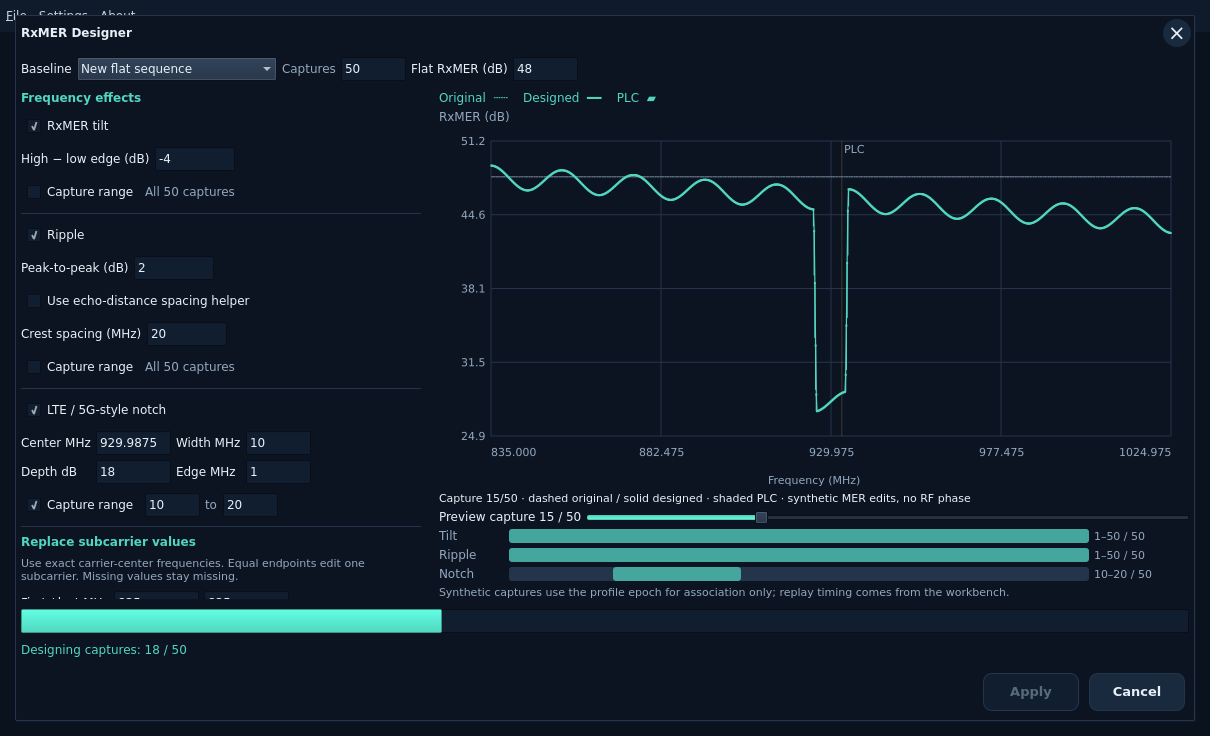
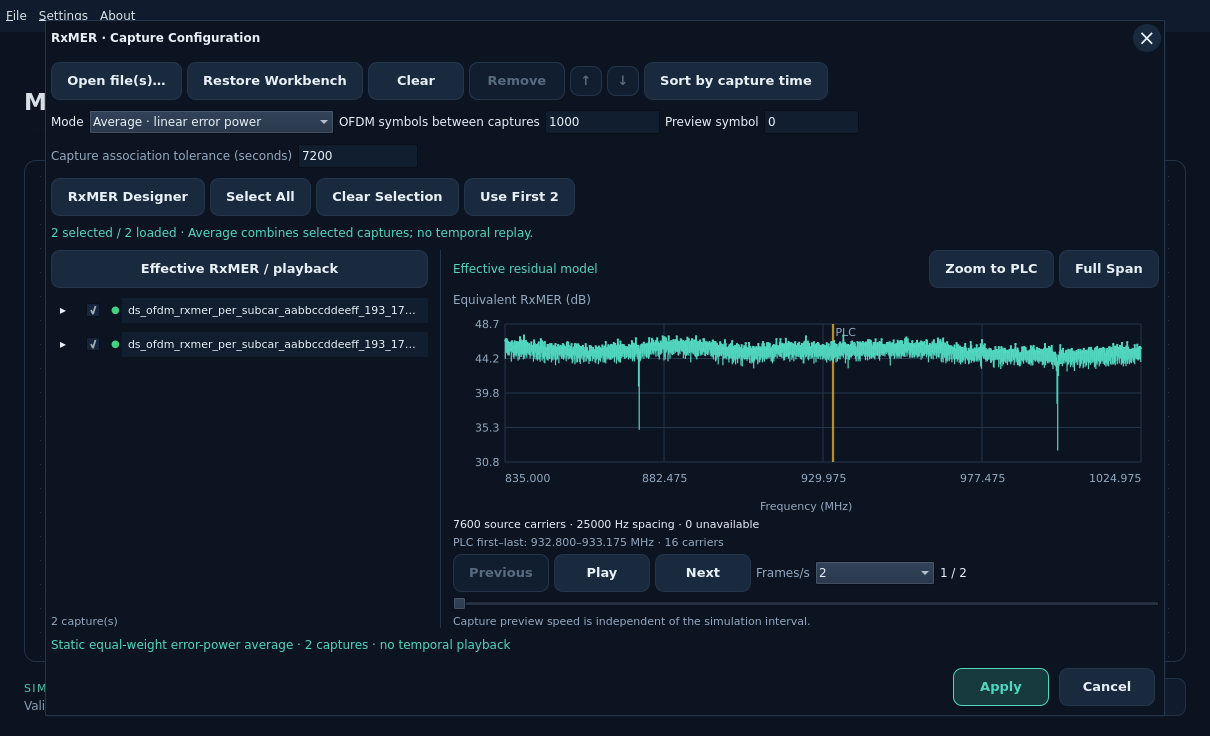
Feature: Add RxMER zoom and PLC focus - Connect Designer wheel and keyboard zoom - Add PLC focus and exact frequency readouts - Strengthen shading and retain capture zoom - Update guides and native screenshots - Tests: 74 adapter, 64 QML, Clippy and native UI

diff --git a/apps/qt/qml/inputs/measurement_input/RxmerDesignerDialog.qml b/apps/qt/qml/inputs/measurement_input/RxmerDesignerDialog.qml
@@ -12,6 +12,8 @@ WorkbenchDialog {
     property var parentOptions: ({})
     property var information: ({})
     property var viewport: ({})
+    property int viewStart: 0
+    property int viewCount: 0
     property var valueEdits: []
     property bool initializing: false
     property bool working: false
@@ -32,8 +34,10 @@ WorkbenchDialog {
             notch:notch.checked ? {scope:notchScope.value(),center_hz:Math.round(Number(center.text)*1e6),bandwidth_hz:Math.round(Number(bandwidth.text)*1e6),depth_db:Number(depth.text),edge_hz:Math.round(Number(edge.text)*1e6)} : null,edits:valueEdits}
     }
     function document() { return JSON.stringify({source:source.currentIndex === 0 ? "imported":"flat",capture_count:captureCount,baseline_db:Number(baseline.text),recipe:recipe()}) }
-    function refresh() { if (!initializing && visible && !working) { viewport=JSON.parse(backend.designer_preview(document(),Math.round(preview.value)));errorMessage=viewport.error || "";diagnostic=viewport.diagnostic || null } }
+    function refresh() { if (!initializing && visible && !working) { viewport=JSON.parse(backend.designer_preview(document(),Math.round(preview.value),viewStart,viewCount));errorMessage=viewport.error || "";diagnostic=viewport.diagnostic || null } }
+    function setWindow(start,count) {viewStart=start;viewCount=count;refresh()}
     function restore() {
+        viewStart=0;viewCount=0
         initializing=true
         information=JSON.parse(backend.designer_begin())
         errorMessage=information.error || ""
@@ -134,8 +138,13 @@ TextField {id:editDb;text:"30";Layout.preferredWidth:75} }
             }
             ColumnLayout {
                 Layout.fillWidth:true;Layout.fillHeight:true
-                Label {text:"Original  ┄┄    Designed  ━━    PLC  ▰";color:theme.accent}
-                MeasurementPlot {theme:dialog.theme;viewport:dialog.viewport;Layout.fillWidth:true;Layout.fillHeight:true;onViewportRequested:{} }
+                RowLayout {
+                    Label {text:"Original ┄  Designed ━  PLC ▰";color:theme.accent;Layout.fillWidth:true}
+                    WorkbenchActionButton {theme:dialog.theme;objectName:"designerZoomPlc";text:"Zoom to PLC";enabled:!!dialog.viewport.plc_view && !dialog.working;onClicked:dialog.setWindow(dialog.viewport.plc_view.start,dialog.viewport.plc_view.count)}
+                    WorkbenchActionButton {theme:dialog.theme;objectName:"designerFullSpan";text:"Full Span";enabled:!dialog.working;onClicked:dialog.setWindow(0,0)}
+                }
+                MeasurementPlot {theme:dialog.theme;viewport:dialog.viewport;Layout.fillWidth:true;Layout.fillHeight:true;onViewportRequested:function(start,count){dialog.setWindow(start,count)} }
+                Label {text:dialog.viewport.plc_summary || "";color:theme.muted;font.pixelSize:11;Layout.fillWidth:true}
                 RowLayout {
                     Label {text:"Preview capture "+Math.round(preview.value)+" / "+dialog.captureCount;color:theme.text}
                     Slider {id:preview;objectName:"designerPreviewCapture";Layout.fillWidth:true;from:1;to:Math.max(1,dialog.captureCount);stepSize:1;enabled:!dialog.working;onMoved:dialog.refresh()}

diff --git a/apps/qt/tests/tst_rxmer_designer.qml b/apps/qt/tests/tst_rxmer_designer.qml
@@ -16,7 +16,7 @@ Pane {
         property int cancelled:0
         property bool pending:false
         function designer_begin(){return JSON.stringify({imported_count:50,first_hz:640000000,last_hz:827000000,spacing_hz:25000,request:{source:"imported",capture_count:50,baseline_db:48,recipe:{tilt:null,ripple:null,notch:null,edits:[]}}})}
-        function designer_preview(document,position){lastRequest=JSON.parse(document);return JSON.stringify({points:[{x:0,y:0.2,minimum_y:0.2,gap:false}],comparison:[{x:0,y:0.1,minimum_y:0.1,gap:false}],bands:[{first:0.4,last:0.41,label:"PLC"}],start:0,count:7481,total:7481,axis_label:"RxMER (dB)",summary:"Capture "+position,timeline:[]})}
+        function designer_preview(document,position,start,count){lastRequest=JSON.parse(document);return JSON.stringify({points:[{x:0,y:0.2,minimum_y:0.2,gap:false}],comparison:[{x:0,y:0.1,minimum_y:0.1,gap:false}],bands:[{first:0.4,last:0.41,label:"PLC"}],start:count ? start:0,count:count || 7481,total:7481,plc_view:{start:4000,count:80},plc_summary:"PLC first–last: 740.000–740.375 MHz · 16 carriers",axis_label:"RxMER (dB)",summary:"Capture "+position,timeline:[]})}
         function designer_stage(document,options){lastRequest=JSON.parse(document);pending=true;return JSON.stringify({running:true})}
         function designer_poll(){pending=false;return JSON.stringify({running:false,cancelled:true})}
         function designer_cancel(){cancelled++}
@@ -26,6 +26,20 @@ Pane {
     TestCase {
         name:"RxmerDesigner";when:windowShown
         function cleanup(){dialog.close();wait(100)}
+        function test_zoom_plc_navigation_and_capture_changes_keep_window(){
+            dialog.open();tryCompare(dialog,"visible",true)
+            mouseClick(findChild(dialog,"designerZoomPlc"))
+            compare(dialog.viewStart,4000);compare(dialog.viewport.count,80)
+            findChild(dialog,"designerPreviewCapture").value=15;dialog.refresh()
+            compare(dialog.viewport.count,80)
+            const navigation=findChild(dialog,"chartNavigation");verify(navigation)
+            navigation.zoom(0.5,0.5);compare(dialog.viewport.count,40)
+            navigation.forceActiveFocus();keyClick(Qt.Key_Home)
+            compare(dialog.viewStart,0);compare(dialog.viewCount,0);compare(dialog.viewport.count,7481)
+            mouseClick(findChild(dialog,"designerZoomPlc"))
+            mouseClick(findChild(dialog,"designerFullSpan"))
+            compare(dialog.viewCount,0)
+        }
         function test_restore_switches_between_range_and_all(){
             scopeProbe.restore({mode:"range",first:10,last:20})
             compare(scopeProbe.range,true);compare(scopeProbe.value().first,10);compare(scopeProbe.value().last,20)

diff --git a/apps/qt/qml/inputs/measurement_input/MeasurementViewer.qml b/apps/qt/qml/inputs/measurement_input/MeasurementViewer.qml
@@ -55,9 +55,11 @@ RowLayout {
             Layout.fillWidth: true
             Label { text: viewer.animationActive ? "Capture preview · "+(playbackControls.frameIndex+1)+" / "+playbackControls.frameCount : viewer.selectedIndex < 0 ? (viewer.rxmer ? "Effective residual model" : "Channel response") : ((viewer.files[viewer.selectedIndex] || {}).designed ? "Designed capture " : "Original capture ") + (viewer.selectedIndex + 1); color: theme.accent; Layout.fillWidth: true }
             ComboBox { objectName: "measurementMetric"; visible: !viewer.rxmer; model: ["Gain (dB)", "Phase (degrees)", "Real H", "Imaginary H"]; onActivated: function(index) { viewer.metric = index; viewer.reset() } }
+            WorkbenchActionButton {theme:viewer.theme;objectName:"measurementZoomPlc";visible:viewer.rxmer;enabled:!!viewer.viewport.plc_view;text:"Zoom to PLC";onClicked:viewer.refresh(viewer.viewport.plc_view.start,viewer.viewport.plc_view.count)}
             WorkbenchActionButton { theme: viewer.theme; objectName: "measurementFullSpan"; text: "Full Span"; onClicked: viewer.reset() }
         }
         MeasurementPlot { Layout.fillWidth: true; Layout.fillHeight: true; theme: viewer.theme; viewport: viewer.viewport; onViewportRequested: function(start, count) { viewer.refresh(start, count) } }
+        Label {visible:viewer.rxmer && text.length>0;text:viewer.viewport.plc_summary || "";color:viewer.theme.muted;font.pixelSize:11;Layout.fillWidth:true}
         MeasurementPlaybackControls {
             id:playbackControls;objectName:"measurementPlaybackControls"
             visible:viewer.rxmer;Layout.fillWidth:true;theme:viewer.theme

diff --git a/apps/qt/qml/inputs/measurement_input/MeasurementPlot.qml b/apps/qt/qml/inputs/measurement_input/MeasurementPlot.qml
@@ -47,8 +47,11 @@ ColumnLayout {
                 ctx.fillText(tick.label, x, top + height + 20)
             }
             for (const band of chart.viewport.bands || []) {
-                ctx.fillStyle = Qt.rgba(0.95, 0.74, 0.25, 0.16)
+                ctx.fillStyle = Qt.rgba(0.95, 0.74, 0.25, 0.24)
                 ctx.fillRect(left + band.first * width, top, (band.last - band.first) * width, height)
+                ctx.strokeStyle = Qt.rgba(0.95,0.74,0.25,0.75);ctx.lineWidth=1
+                ctx.beginPath();ctx.moveTo(left+band.first*width,top);ctx.lineTo(left+band.first*width,top+height)
+                ctx.moveTo(left+band.last*width,top);ctx.lineTo(left+band.last*width,top+height);ctx.stroke()
                 ctx.fillStyle = chart.theme.muted; ctx.textAlign = "left"
                 ctx.fillText(band.label, Math.min(left + band.first * width + 3, left + width - 25), top + 12)
             }

diff --git a/apps/qt/src/inputs/measurement_input/designer.rs b/apps/qt/src/inputs/measurement_input/designer.rs
@@ -360,6 +360,23 @@ impl Session {
         request: &Request,
         position: usize,
     ) -> Result<Value, AdmissionError> {
+        self.preview_window(request, position, 0, 0)
+    }
+    /// Produces bounded original/designed curves for one exact source window.
+    /// # Arguments
+    /// * `request`, `position` - Immutable recipe and one-based capture position.
+    /// * `start`, `samples` - Source offsets; zero samples restores full span.
+    /// # Returns
+    /// Shared-axis curves, clipped PLC band and original-coordinate navigation.
+    /// # Errors
+    /// Rejects invalid recipes, positions and out-of-grid viewports atomically.
+    pub(crate) fn preview_window(
+        &self,
+        request: &Request,
+        position: usize,
+        start: usize,
+        samples: usize,
+    ) -> Result<Value, AdmissionError> {
         let count = self.count(request)?;
         if position == 0 || position > count {
             return Err("Preview capture outside the collection.".into());
@@ -370,10 +387,11 @@ impl Session {
             .recipe
             .apply(grid, &origin.frame.mer_db, position, count)
             .map_err(AdmissionError::classified)?;
-        let before = measurement_view(grid, &origin.frame.mer_db, 0, 0, "RxMER (dB)")
+        let before = measurement_view(grid, &origin.frame.mer_db, start, samples, "RxMER (dB)")
             .map_err(|error| error.to_string())?;
-        let after = measurement_view(grid, &designed, 0, 0, "RxMER (dB)")
+        let after = measurement_view(grid, &designed, start, samples, "RxMER (dB)")
             .map_err(|error| error.to_string())?;
+        let window = after.start..after.start + after.count;
         // Reproject both normalized curves onto a common range from original dB values.
         let mut before = serde_json::to_value(before).map_err(|error| error.to_string())?;
         let mut after = serde_json::to_value(after).map_err(|error| error.to_string())?;
@@ -394,8 +412,8 @@ impl Session {
             let padding = ((high - low) * 0.1).max(1.0);
             (low - padding, high + padding)
         }
-        let (before_bottom, before_top) = limits(&origin.frame.mer_db);
-        let (after_bottom, after_top) = limits(&designed);
+        let (before_bottom, before_top) = limits(&origin.frame.mer_db[window.clone()]);
+        let (after_bottom, after_top) = limits(&designed[window]);
         let low = before_bottom.min(after_bottom);
         let high = before_top.max(after_top);
         for (view, (bottom, top)) in [
@@ -651,5 +669,45 @@ mod tests {
             result.error
         );
         assert_eq!(result.summary.comparison.bit_errors, 0);
+    }
+    #[test]
+    fn preview_zoom_uses_original_offsets_shared_axes_and_bounded_plc_window() {
+        let (session, _) = fixture();
+        let request = Request {
+            source: "flat".into(),
+            capture_count: 1,
+            baseline_db: 48.0,
+            recipe: Default::default(),
+        };
+        let full = session.preview(&request, 1).unwrap();
+        let start = full["plc_view"]["start"].as_u64().unwrap() as usize;
+        let count = full["plc_view"]["count"].as_u64().unwrap() as usize;
+        let zoom = session.preview_window(&request, 1, start, count).unwrap();
+        assert_eq!(zoom["start"], start);
+        assert_eq!(zoom["count"], count);
+        assert!(count < session.profile.key.grid.sample_count);
+        assert!(start + count <= session.profile.key.grid.sample_count);
+        let width = |view: &Value| {
+            view["bands"][0]["last"].as_f64().unwrap() - view["bands"][0]["first"].as_f64().unwrap()
+        };
+        assert!(width(&zoom) > width(&full) * 10.0);
+        assert_eq!(zoom["points"], zoom["comparison"]);
+        assert!(zoom["points"].as_array().unwrap().len() <= 1024);
+        assert_eq!(
+            zoom["x_ticks"][0]["label"],
+            format!(
+                "{:.3}",
+                f64::from(session.profile.key.grid.frequency(start).unwrap()) / 1e6
+            )
+        );
+        assert!(session.preview_window(&request, 1, usize::MAX, 2).is_err());
+        assert_eq!(
+            session.preview_window(&request, 1, 0, 0).unwrap()["count"],
+            full["count"]
+        );
+        assert!(full["plc_summary"]
+            .as_str()
+            .unwrap()
+            .contains("16 carriers"));
     }
 }

diff --git a/apps/qt/src/inputs/measurement_input/plc.rs b/apps/qt/src/inputs/measurement_input/plc.rs
@@ -16,6 +16,8 @@ use serde_json::{json, Value};
 /// Unit; incompatible/missing profiles leave the overlay empty.
 pub(crate) fn annotate(view: &mut Value, grid: &FrequencyGrid, profile: Option<&CapturedProfile>) {
     view["bands"] = json!([]);
+    view["plc_view"] = Value::Null;
+    view["plc_summary"] = json!("");
     let Some(profile) = profile.filter(|profile| profile.key.grid == *grid) else {
         return;
     };
@@ -33,6 +35,16 @@ pub(crate) fn annotate(view: &mut Value, grid: &FrequencyGrid, profile: Option<&
         .map(|(index, _)| index);
     let Some(first) = carriers.next() else { return };
     let last = carriers.next_back().unwrap_or(first);
+    let padding = (last - first + 1).max(8) * 2;
+    let zoom_start = first.saturating_sub(padding);
+    let zoom_end = (last + 1 + padding).min(grid.sample_count);
+    view["plc_view"] = json!({"start":zoom_start,"count":zoom_end-zoom_start});
+    view["plc_summary"] = json!(format!(
+        "PLC first–last: {:.3}–{:.3} MHz · {} carriers",
+        f64::from(grid.frequency(first).unwrap_or(0)) / 1e6,
+        f64::from(grid.frequency(last).unwrap_or(0)) / 1e6,
+        last - first + 1
+    ));
     if count == 1 {
         if (first..=last).contains(&start) {
             view["bands"] = json!([{"first":0.0,"last":1.0,"label":"PLC"}]);

diff --git a/apps/qt/src/bridge/rxmer_designer.rs b/apps/qt/src/bridge/rxmer_designer.rs
@@ -67,17 +67,26 @@ impl bridge::MeasurementInputs {
     /// # Arguments
     /// * `document` - Source controls and scientific recipe, at most24KiB.
     /// * `position` - One-based capture number.
+    /// * `start`, `count` - Nonnegative source viewport; zero count restores full span.
     /// # Returns
     /// Shared-axis frequency view, never a serialized capture collection.
-    pub fn designer_preview(&self, document: &QString, position: i32) -> QString {
+    pub fn designer_preview(
+        &self,
+        document: &QString,
+        position: i32,
+        start: i32,
+        count: i32,
+    ) -> QString {
         response((|| {
             self.rust()
                 .designer
                 .as_ref()
                 .ok_or("Open Designer first.")?
-                .preview(
+                .preview_window(
                     &request(document)?,
                     usize::try_from(position).map_err(|_| "Invalid capture position.")?,
+                    usize::try_from(start).map_err(|_| "Invalid viewport start.")?,
+                    usize::try_from(count).map_err(|_| "Invalid viewport count.")?,
                 )
         })())
     }

diff --git a/apps/qt/src/bridge/measurement_input.rs b/apps/qt/src/bridge/measurement_input.rs
@@ -26,8 +26,13 @@ pub mod bridge {
         fn designer_begin(self: Pin<&mut MeasurementInputs>) -> QString;
         /// Returns a bounded shared-axis before/after frequency preview.
         #[qinvokable]
-        fn designer_preview(self: &MeasurementInputs, document: &QString, position: i32)
-            -> QString;
+        fn designer_preview(
+            self: &MeasurementInputs,
+            document: &QString,
+            position: i32,
+            start: i32,
+            count: i32,
+        ) -> QString;
         /// Generates a complete replacement draft on a cancellable Rust worker.
         #[qinvokable]
         fn designer_stage(

diff --git a/docs/user/measurement-inputs/rxmer-designer.md b/docs/user/measurement-inputs/rxmer-designer.md
@@ -10,8 +10,17 @@ an association anchor; it is not a measured acquisition time.
 Enable the effects you need. The preview overlays the original dashed curve and
 the designed solid curve on the same RxMER axis. A single shaded **PLC** region
 runs from the first to the last PLC carrier in the accepted modulation profile.
-The main RxMER chart uses the same region, clipped when zoomed. No PLC region is
-guessed from the RxMER shape; a missing or incompatible profile has no overlay.
+The main RxMER chart uses the same region, clipped when zoomed. At full span,
+a narrow PLC may cover only one or two pixels. Press **Zoom to PLC** in either
+view to frame it with nearby carriers. Scroll over the chart to zoom around the
+pointer, drag horizontally to select a range, or focus the chart and use **+ / −**.
+**Full Span** or **Home** restores the whole frequency band. The Designer keeps
+zoom when changing capture or effect controls. The first/last PLC frequency
+readout is below the chart; shading and border lines retain their true positions.
+
+![RxMER Designer zoomed to the PLC region](../../images/workbench/rxmer-designer-plc-zoom-dark.png)
+
+No PLC region is guessed from the RxMER shape; a missing or incompatible profile has no overlay.
 
 | Control | Effect |
 | --- | --- |
@@ -33,7 +42,7 @@ The supported limits are 256 captures, 4 million values, 32 value ranges, ±60 d
 reject without clipping or changing original input files. Hover or focus known
 recipe errors for help; click or press Enter/F1 to open the offline FAQ.
 
-![Main RxMER chart with the same PLC region and existing replay-capacity checks](../../images/workbench/rxmer-designer-main-dark.png)
+![Main RxMER chart with the same PLC region and zoom controls](../../images/workbench/rxmer-designer-main-dark.png)
 
 **Apply** builds the designed collection on a cancellable Rust worker and stages
 it in Capture Configuration. Progress counts completed captures. Then select the

diff --git a/docs/development/features/rxmer-designer/validation.md b/docs/development/features/rxmer-designer/validation.md
@@ -35,3 +35,20 @@ local screenshots, logs and the bounded native driver remain under
 `docs/development/local/independent-channel-estimation/` and
 `docs/development/local/rxmer-designer/`. No original fixture or source capture
 was overwritten. Designer debug logs report stage counts without capture arrays.
+
+## RXMER-DESIGN-02: zoom and PLC visibility
+
+Qt check passes with 74 adapter tests and 64 QML checks, warnings-denied Clippy,
+formatting and a current executable. New coverage verifies source-offset cropping,
+shared original/designed axes, bounded PLC context, invalid viewport rejection,
+Zoom to PLC, retained capture zoom, wheel-equivalent navigation, Home and Full Span.
+The scientific core is unchanged; this change uses the Qt validation scope.
+
+On the native example workbench the PLC spans first/last carrier centers at
+932.800–933.175 MHz (16 carriers) within a 835.000–1024.975 MHz source grid. The
+full-band drawing is approximately one pixel wide. Zoom to PLC frames
+932.000–933.975 MHz and reveals one continuous shaded region with endpoint lines,
+without inventing a wider PLC. Native Designer and main RxMER views, capture
+changes and Home reset were inspected; the main PLC view was also checked in
+light mode. Updated full-span and zoomed screenshots
+are linked in the user guide.

diff --git a/docs/development/features/rxmer-designer/design.md b/docs/development/features/rxmer-designer/design.md
@@ -54,3 +54,15 @@ Validation: independent numerical anchors; scope boundaries 10–20 of 50;
 missing/gap preservation; invalid ranges and bounded work; repeatability; original
 and derived provenance; cancellation/stale-result safety; WB roundtrip; actual
 residual playback/FEC; Qt checks, native dark/light interaction and guide captures.
+
+## RXMER-DESIGN-02: zoom and visible PLC context
+
+Add shared wheel/drag/keyboard navigation to Designer previews, Full Span and
+Zoom to PLC actions to both RxMER views, and a Rust-formatted first/last PLC
+frequency readout. Rust clips and decimates both original/designed curves onto
+one requested source window and shared vertical scale. Capture/effect changes
+retain zoom; reopening resets it. The PLC shortcut frames the actual profile
+region with bounded context; shading retains its true width. Slightly stronger
+fill and endpoint borders improve visibility at full span without widening data.
+Validate clipped curves, out-of-range requests, shortcut bounds, persistent zoom,
+Full Span and native narrow-PLC rendering. No scientific recipe changes.

diff --git a/docs/architecture.md b/docs/architecture.md
@@ -2190,6 +2190,10 @@ Rust derives one continuous PLC overlay from the first and last PLC assignments
 in the accepted modulation profile. It is clipped to the source viewport and
 omitted for incompatible identity/grid. QML shades beneath the curves; no carrier
 positions are inferred from measurement magnitudes. Main RxMER, animation and
-Designer use the same overlay helper. See the
+Designer use the same overlay helper. Designer requests carry bounded source
+start/count coordinates through the Qt adapter, with both curves decimated and
+scaled together over that window. Zoom to PLC derives a clipped context window
+from the accepted profile; Full Span and shared pointer/keyboard navigation
+change only the view, and capture/recipe edits retain zoom. See the
 [design](development/features/rxmer-designer/design.md) and
 [user guide](user/measurement-inputs/rxmer-designer.md).
